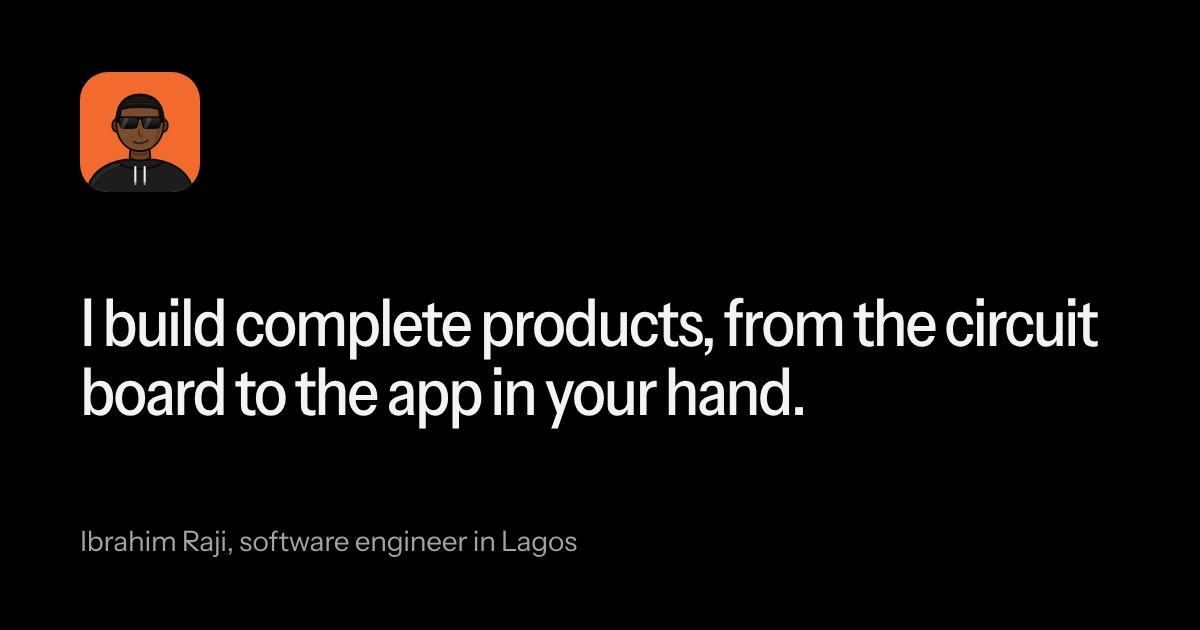
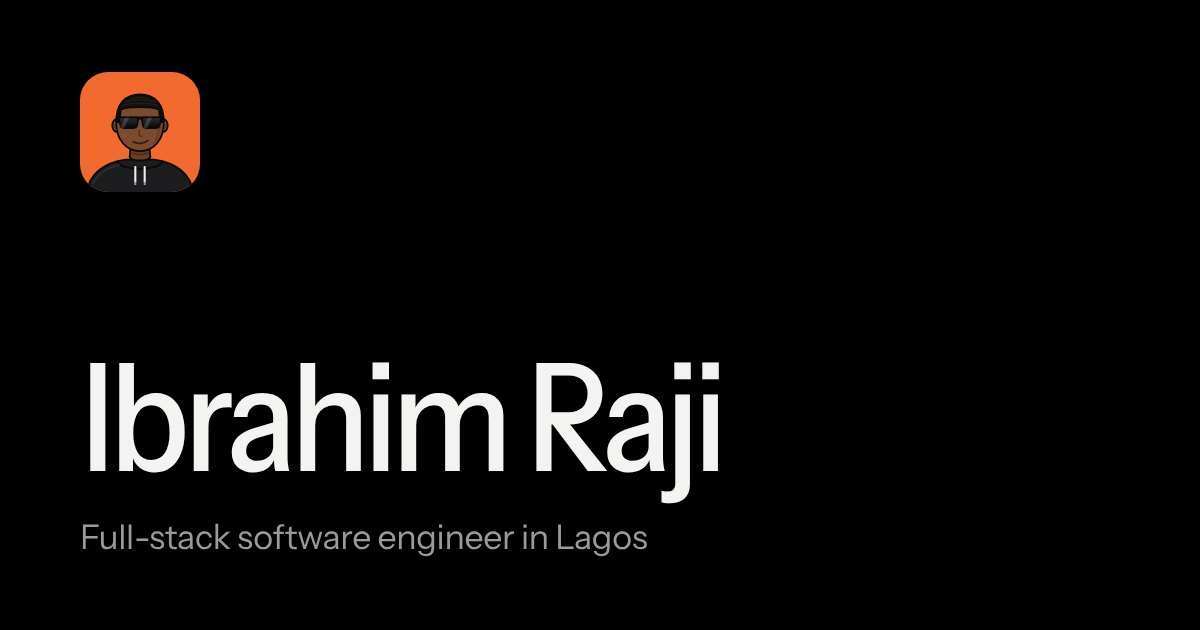
Lead with my name, plainer About, STRIDE back office
- The headline is now my name, with one plain line under it: full-stack
  software engineer in Lagos, the tools I use, and what I'm open to
- About says what I studied and what I built instead of the circuit
  board line
- STRIDE's card covers the back office and links to it
- New link preview image and CV to match

Claude-Session: https://claude.ai/code/session_01DYpGvxgDuZpw6nQtdeqw7h

Changed region(s): [[0.0617, 0.4524, 0.925, 0.8143], [0.0617, 0.8143, 0.555, 0.8746]]

diff --git a/index.html b/index.html
@@ -4,7 +4,7 @@
 <meta charset="utf-8">
 <meta name="viewport" content="width=device-width, initial-scale=1">
 <title>Ibrahim Raji, software engineer in Lagos</title>
-<meta name="description" content="I build complete products, from the circuit board to the app in your hand. Software engineer in Lagos, open to graduate roles and website projects.">
+<meta name="description" content="Ibrahim Raji, full-stack software engineer in Lagos, Nigeria. Works with Next.js, React Native and PostgreSQL. Open to graduate roles and freelance projects.">
 <meta name="theme-color" content="#000000">
 <meta name="color-scheme" content="dark">
 <link rel="canonical" href="https://ibrahimraji.vercel.app/">
@@ -15,11 +15,11 @@
 <link rel="preload" href="assets/fonts/instrument-sans.woff2" as="font" type="font/woff2" crossorigin>
 <meta property="og:type" content="website">
 <meta property="og:title" content="Ibrahim Raji, software engineer in Lagos">
-<meta property="og:description" content="I build complete products, from the circuit board to the app in your hand. Software engineer in Lagos, open to graduate roles and website projects.">
+<meta property="og:description" content="Ibrahim Raji, full-stack software engineer in Lagos, Nigeria. Works with Next.js, React Native and PostgreSQL. Open to graduate roles and freelance projects.">
 <meta property="og:image" content="https://ibrahimraji.vercel.app/assets/img/og.jpg">
 <meta property="og:image:width" content="1200">
 <meta property="og:image:height" content="630">
-<meta property="og:image:alt" content="Ibrahim Raji's avatar above the line: I build complete products, from the circuit board to the app in your hand.">
+<meta property="og:image:alt" content="Ibrahim Raji's avatar above his name and the line: full-stack software engineer in Lagos.">
 <meta name="twitter:card" content="summary_large_image">
 <script type="application/ld+json">{"@context":"https://schema.org","@type":"Person","name":"Ibrahim Raji","url":"https://ibrahimraji.vercel.app/","alternateName":"Raji Ibrahim Ajibola","jobTitle":"Software Engineer","address":{"@type":"PostalAddress","addressLocality":"Lagos","addressCountry":"NG"},"alumniOf":{"@type":"CollegeOrUniversity","name":"Bowen University"},"email":"mailto:ajibolaraji2@gmail.com","sameAs":["https://www.linkedin.com/in/ibrahim-raji-38ab15380","https://github.com/jibolaaa"]}</script>
 <style>
@@ -78,7 +78,7 @@ html.menu-open{overflow:hidden}
 /* hero: the one moment on the page */
 .hero{padding:48px 0 88px}
 .pfp{display:block;width:72px;height:72px;margin-bottom:28px;border-radius:18px}
-.statement{font-size:clamp(36px,5.4vw,64px);line-height:1.04;font-weight:500;font-stretch:88%;letter-spacing:-.035em;max-width:14.2em}
+.statement{font-size:clamp(52px,10.5vw,124px);line-height:.98;font-weight:500;font-stretch:88%;letter-spacing:-.04em;max-width:14.2em}
 .sub{margin-top:28px;color:var(--ash);font-size:17px;max-width:30em}
 .actions{display:flex;gap:10px;margin-top:28px;flex-wrap:wrap}
 .btn{display:inline-flex;align-items:center;justify-content:center;height:48px;padding:0 22px;border-radius:999px;background:var(--ink);color:var(--black);font-size:15px;font-weight:550;white-space:nowrap;transition:background-color .2s}
@@ -112,6 +112,8 @@ html.menu-open{overflow:hidden}
 .cap h3{font-size:24px;line-height:1.15;font-weight:500;font-stretch:92%;letter-spacing:-.02em}
 .year{color:var(--ash);font-size:15px}
 .desc{max-width:36em}
+.desc a{text-decoration:underline;text-decoration-color:#5A5A5A;text-underline-offset:3px;transition:text-decoration-color .2s}
+.desc a:hover{text-decoration-color:currentColor}
 .stack{color:var(--ash);font-size:15px}
 
 /* links that sit on the images */
@@ -237,8 +239,8 @@ footer a:hover{color:var(--ink)}
 <main>
 <section class="hero pending" id="top"><div class="wrap">
   <img class="pfp" src="assets/img/avatar.svg" width="72" height="72" alt="Cartoon avatar of Ibrahim in shades and a black hoodie">
-  <h1 class="statement">I build complete products, from the circuit board to the app in your hand.</h1>
-  <p class="sub">Software engineer in Lagos. Open to graduate roles and website projects.</p>
+  <h1 class="statement">Ibrahim Raji</h1>
+  <p class="sub">Full-stack software engineer in Lagos, Nigeria. I work with Next.js, React Native and PostgreSQL, and I'm open to graduate roles and freelance projects.</p>
   <div class="actions">
     <a class="btn" href="https://wa.me/2348105432993" target="_blank" rel="noopener"><svg class="ic" viewBox="0 0 24 24" aria-hidden="true"><path d="M7.4 18.3A8.5 8.5 0 1 0 5.7 16.6L3.5 20.5Z"/></svg>WhatsApp</a>
     <a class="btn line" href="mailto:ajibolaraji2@gmail.com"><svg class="ic" viewBox="0 0 24 24" aria-hidden="true"><rect x="3" y="5.5" width="18" height="13" rx="2.5"/><path d="m3.8 7.3 8.2 5.7 8.2-5.7"/></svg>Email</a>
@@ -277,8 +279,8 @@ footer a:hover{color:var(--ink)}
     </div>
     <div class="cap">
       <div class="cap-head"><h3>STRIDE</h3><span class="year">2026</span></div>
-      <p class="desc">An online sneaker store with sizes, search, a cart that remembers you and a real Paystack checkout. Prices are checked on the server, so nobody can edit what they pay.</p>
-      <p class="stack">Next.js, Paystack</p>
+      <p class="desc">An online sneaker store with a Paystack checkout, and the back office the shop runs on: staff sell at the till, count stock by size and see the day's numbers, each with their own access. When two tills try to sell the last pair at once, only one sale goes through. <a href="https://stride-store-ng.vercel.app/office/login" target="_blank" rel="noopener">Try the back office</a></p>
+      <p class="stack">Next.js, PostgreSQL, Paystack</p>
     </div>
   </article>
 
@@ -328,7 +330,7 @@ footer a:hover{color:var(--ink)}
 <section class="about" id="about"><div class="wrap">
   <h2 class="sec">About</h2>
   <div class="about-grid">
-    <p class="about-lede">I studied Software Engineering at Bowen University. My final-year project put me on every layer of a product at once, from wiring sensors to shipping the app, and I've built that way since.</p>
+    <p class="about-lede">I studied Software Engineering at Bowen University and graduated in 2026. My final-year project was FireSafe, a fire and gas alarm with its own phone app. I've also built STRIDE, an online store with a back office for the shop, and Swiftplate, a food delivery platform.</p>
     <dl class="facts">
       <div><dt>Looking for</dt><dd>A graduate or junior engineering role, in Lagos or remote</dd></div>
       <div><dt>Education</dt><dd>B.Sc. Software Engineering, Bowen University, 2026</dd></div>
